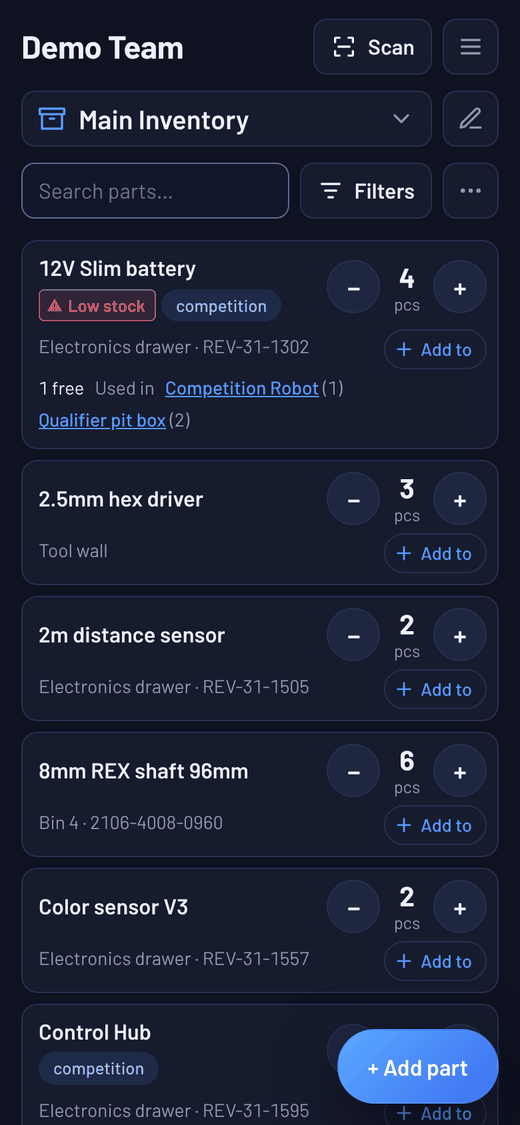
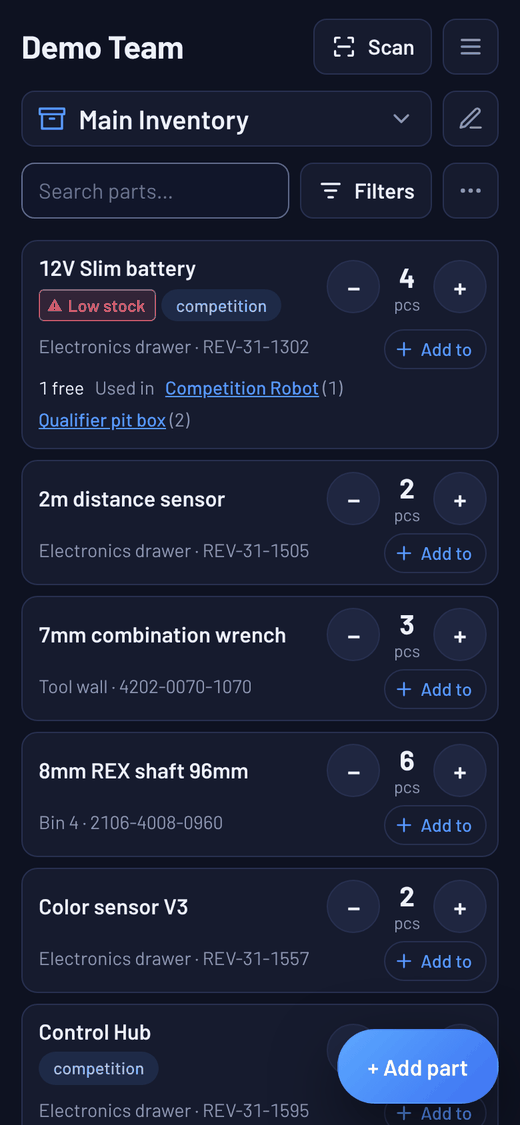
Demo: give the hex driver a catalog part so every sample part shows a photo

diff --git a/src/demo.js b/src/demo.js
@@ -89,7 +89,7 @@ const SAMPLE_PARTS = [
   ['Flanged ball bearing 8mm', '1611-0814-0008', 16, 'Bin 4', 'goBILDA', 'Hardware/Bearings', []],
   ['Surgical tubing (1 m)', '', 3, 'Bin 2', 'McMaster-Carr', 'Hardware/Intake', ['intake']],
   ['Zip ties (100 pack)', '', 2, 'Tool wall', 'Amazon', 'Supplies', []],
-  ['2.5mm hex driver', '', 3, 'Tool wall', 'goBILDA', 'Tools', []],
+  ['7mm combination wrench', '4202-0070-1070', 3, 'Tool wall', 'goBILDA', 'Tools', []],
 ];
 
 // The product link the part catalog gives each sample part number, like autofill does in the app.
@@ -131,7 +131,7 @@ const SAMPLE_USES = [
 
 // [part name, quantity to pack, packed]
 const SAMPLE_PACKING = [
-  ['12V Slim battery', 2, true], ['Zip ties (100 pack)', 1, true], ['2.5mm hex driver', 2, false],
+  ['12V Slim battery', 2, true], ['Zip ties (100 pack)', 1, true], ['7mm combination wrench', 2, false],
   ['Smart Robot Servo', 1, false], ['M4 x 8mm socket head screw (25 pack)', 1, false],
   ['Control Hub (spare)', 1, false], ['Battery charger', 1, true],
 ];
